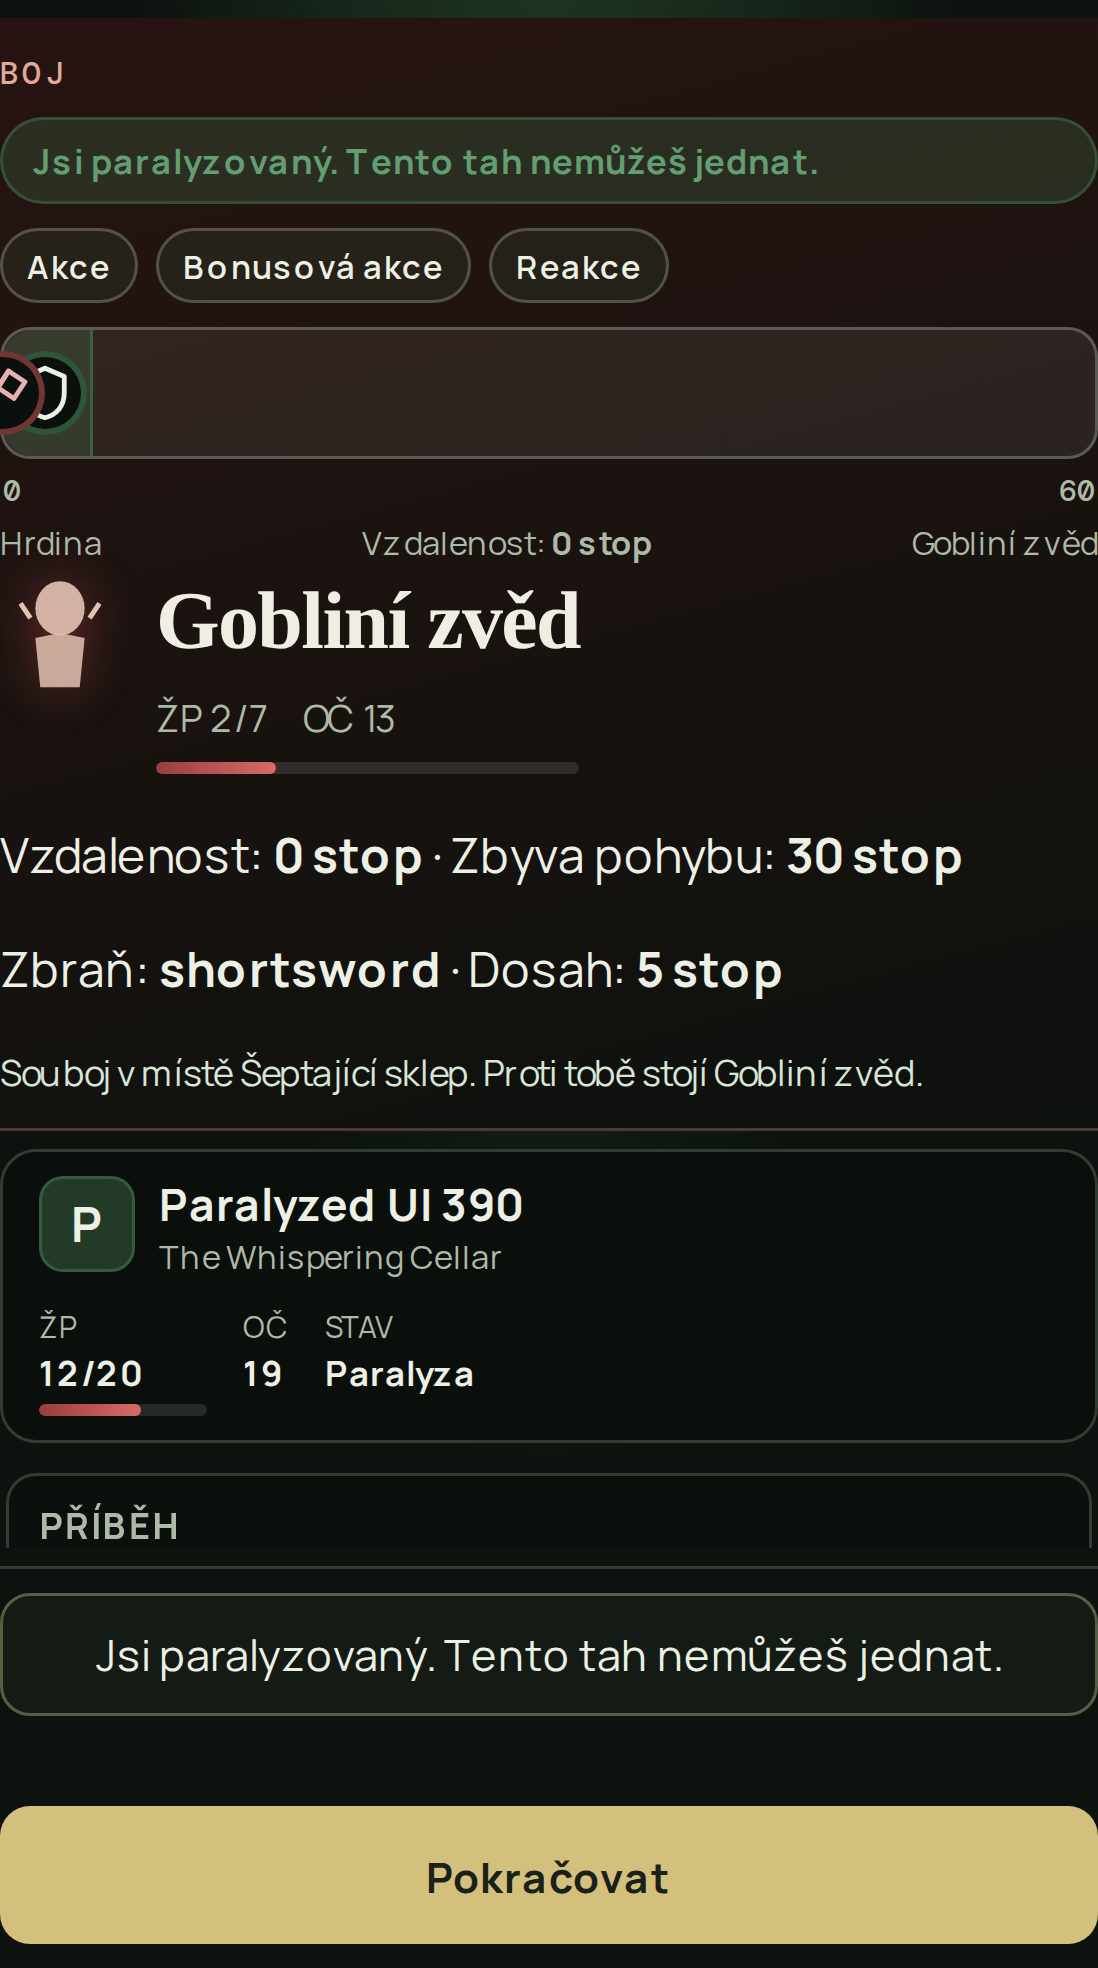
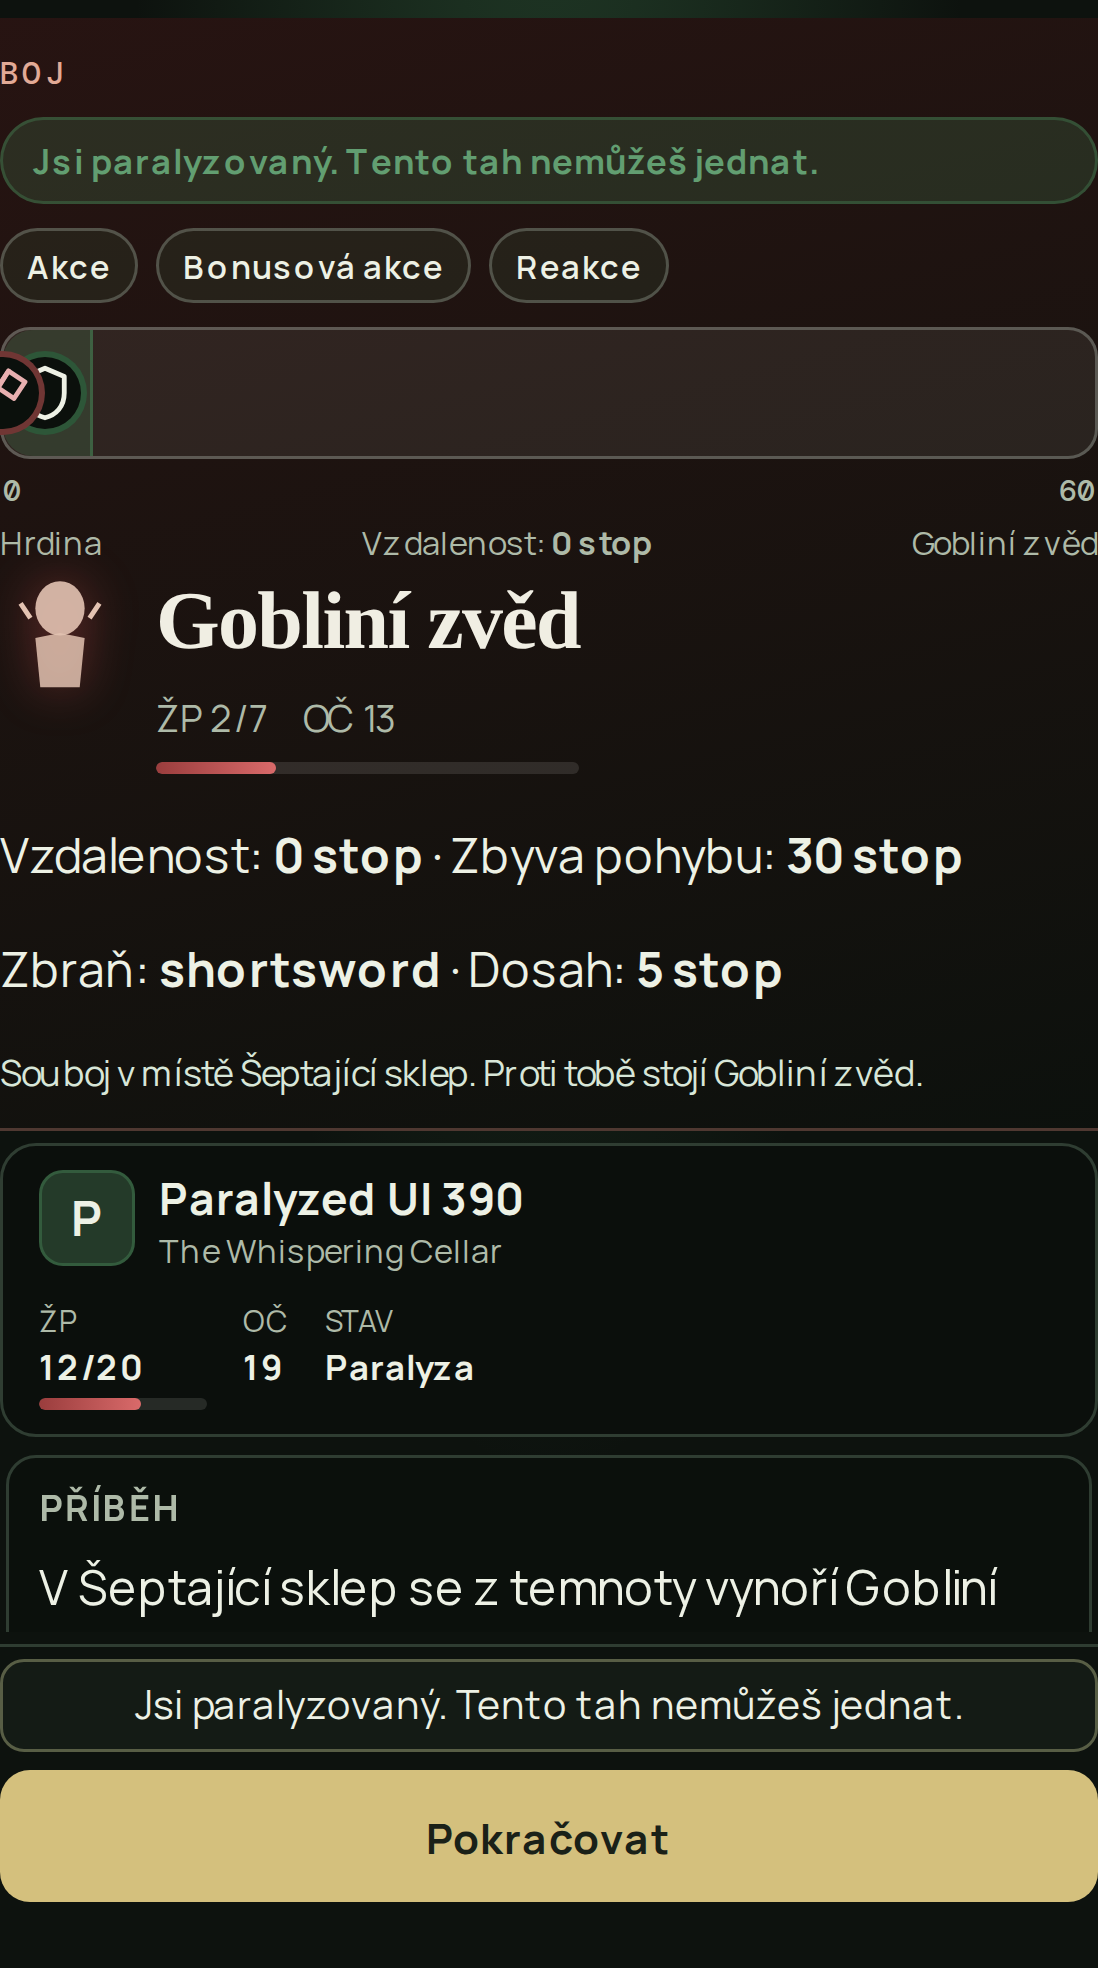
fix(combat): paralyzace — kompaktní deck + safe-area na 320px
Zmenšená karta a mezery v paralyzed layoutu, padding nad safe-area;
Playwright ověřuje viditelnost Pokračovat bez scrollu na 320 px.

Changed region(s): [[0.0, 0.5889, 1.0, 0.9919], [0.9909, 0.5889, 1.0, 0.6199]]

diff --git a/frontend/e2e/combat-paralyzed-screenshots.spec.ts b/frontend/e2e/combat-paralyzed-screenshots.spec.ts
@@ -1,4 +1,4 @@
-import { expect, test } from '@playwright/test';
+import { expect, test, type Locator, type Page } from '@playwright/test';
 import { mkdirSync } from 'node:fs';
 import { dirname, join } from 'node:path';
 import { fileURLToPath } from 'node:url';
@@ -21,6 +21,29 @@ const CONTINUE_BTN = /^Continue$|^Pokračovat$/i;
 const COMBAT_ACTIONS = /combat actions|bojové akce/i;
 
 test.describe.configure({ mode: 'serial' });
+
+async function assertControlFullyInViewportWithoutScroll(page: Page, control: Locator) {
+  await expect(control).toBeVisible();
+  const scrollState = await page.evaluate(() => ({
+    scrollY: window.scrollY,
+    pageScrollable: document.documentElement.scrollHeight > window.innerHeight + 1,
+  }));
+  expect(scrollState.scrollY).toBe(0);
+  expect(scrollState.pageScrollable).toBe(false);
+
+  const box = await control.boundingBox();
+  expect(box).not.toBeNull();
+  const safeBottom = await page.evaluate(() => {
+    const raw = getComputedStyle(document.documentElement).getPropertyValue('--app-safe-bottom').trim();
+    if (!raw) return 0;
+    return Number.parseFloat(raw) || 0;
+  });
+  const viewport = page.viewportSize();
+  expect(viewport).not.toBeNull();
+  const maxBottom = viewport!.height - safeBottom;
+  expect(box!.y).toBeGreaterThanOrEqual(0);
+  expect(box!.y + box!.height).toBeLessThanOrEqual(maxBottom + 0.5);
+}
 
 for (const width of WIDTHS) {
   test(`paralyzed combat UI ${width}px`, async ({ page, request }, testInfo) => {
@@ -83,8 +106,12 @@ for (const width of WIDTHS) {
     const deck = page.getByRole('group', { name: COMBAT_ACTIONS });
     await expect(deck).toBeVisible({ timeout: 30_000 });
     await expect(deck.getByText(/Tento tah nemůžeš jednat/i)).toBeVisible();
-    await expect(deck.getByRole('button', { name: CONTINUE_BTN })).toBeVisible();
+    const continueBtn = deck.getByRole('button', { name: CONTINUE_BTN });
+    await expect(continueBtn).toBeVisible();
     await expect(deck.getByRole('button', { name: /^Útok\b|^Attack\b/i })).toHaveCount(0);
+    if (width === 320) {
+      await assertControlFullyInViewportWithoutScroll(page, continueBtn);
+    }
 
     const outfile = join(SCREENSHOT_DIR, `combat-paralyzed-${width}px.png`);
     await page.locator('.combat-screen.combat-v2').screenshot({ path: outfile });

diff --git a/frontend/src/styles/play.css b/frontend/src/styles/play.css
@@ -1246,26 +1246,51 @@
   border: 1px dashed color-mix(in srgb, var(--gold) 35%, var(--border-subtle));
 }
 
+.combat-screen.combat-v2:has(.combat-action-deck-paralyzed) {
+  gap: 4px;
+  padding-bottom: calc(2px + var(--app-safe-bottom, var(--tg-safe-bottom, env(safe-area-inset-bottom, 0px))));
+}
+
+.combat-screen.combat-v2:has(.combat-action-deck-paralyzed) .combat-v2-story {
+  max-height: min(16vh, 132px);
+}
+
+.combat-screen.combat-v2:has(.combat-action-deck-paralyzed) .combat-moment {
+  padding: 2px 2px 4px;
+}
+
+.combat-screen.combat-v2:has(.combat-action-deck-paralyzed) .combat-action-deck {
+  padding-top: 4px;
+}
+
 .combat-action-deck-paralyzed {
   display: flex;
   flex-direction: column;
-  gap: 10px;
+  flex-shrink: 0;
+  gap: 6px;
+  margin-top: auto;
 }
 
 .combat-paralyzed-message {
   margin: 0;
-  padding: 10px 12px;
-  border-radius: 10px;
+  padding: 6px 8px;
+  border-radius: 8px;
   border: 1px solid color-mix(in srgb, var(--gold) 25%, var(--border-subtle));
   background: color-mix(in srgb, var(--surface) 88%, #000);
   color: var(--text);
-  font-size: 0.9rem;
-  line-height: 1.35;
+  font-size: 0.82rem;
+  line-height: 1.3;
   text-align: center;
 }
 
-.combat-paralyzed-continue {
+.combat-action-deck-paralyzed .combat-paralyzed-continue {
   width: 100%;
+  margin-top: 0;
+}
+
+.combat-action-deck-paralyzed .combat-end-turn.combat-paralyzed-continue {
+  min-height: 44px;
+  padding: 8px 12px;
 }
 
 .combat-end-turn {
